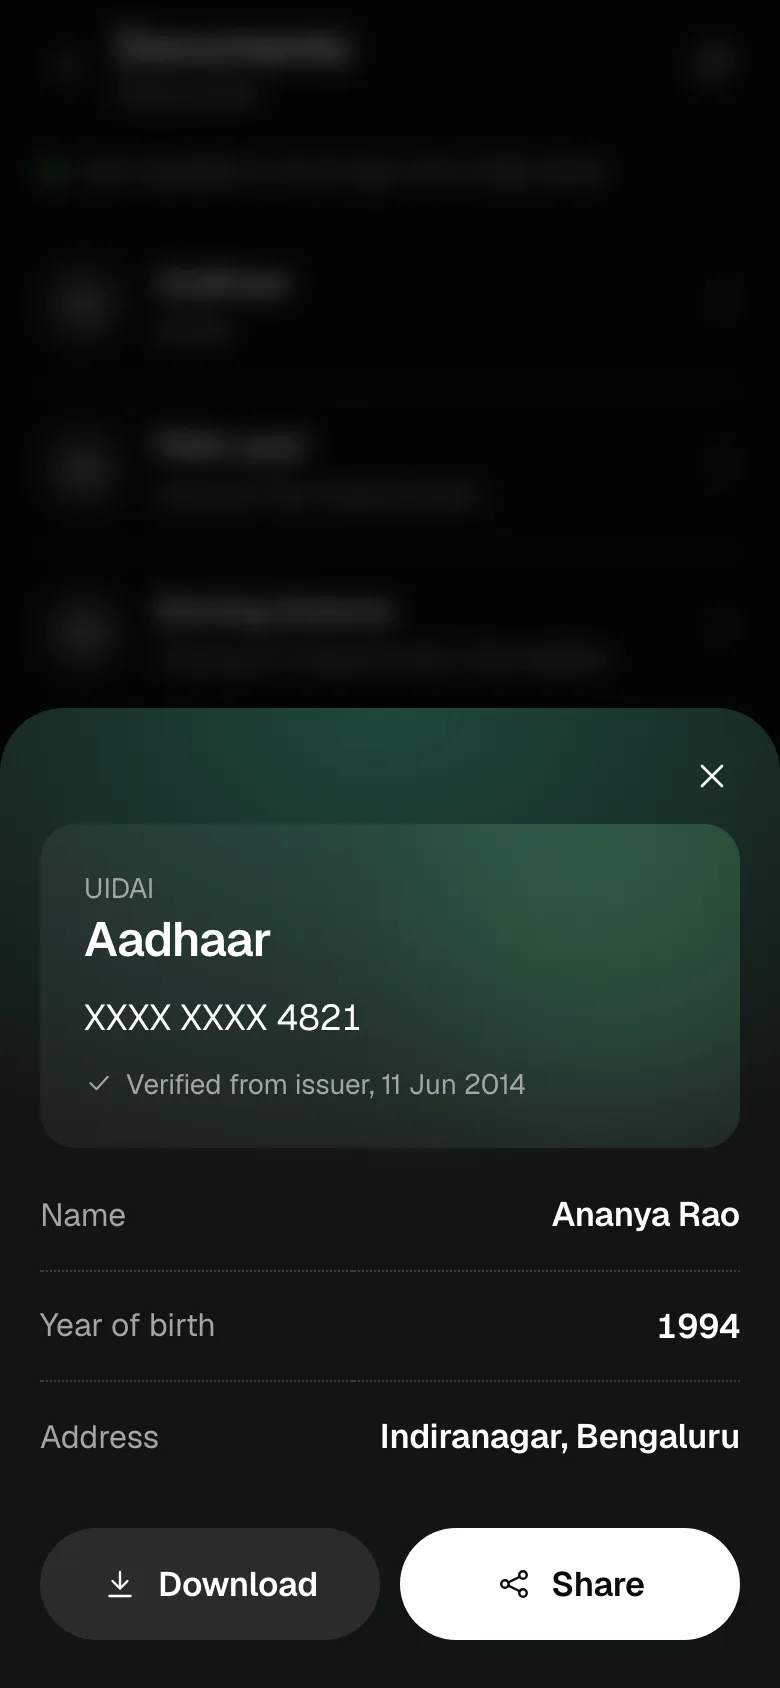
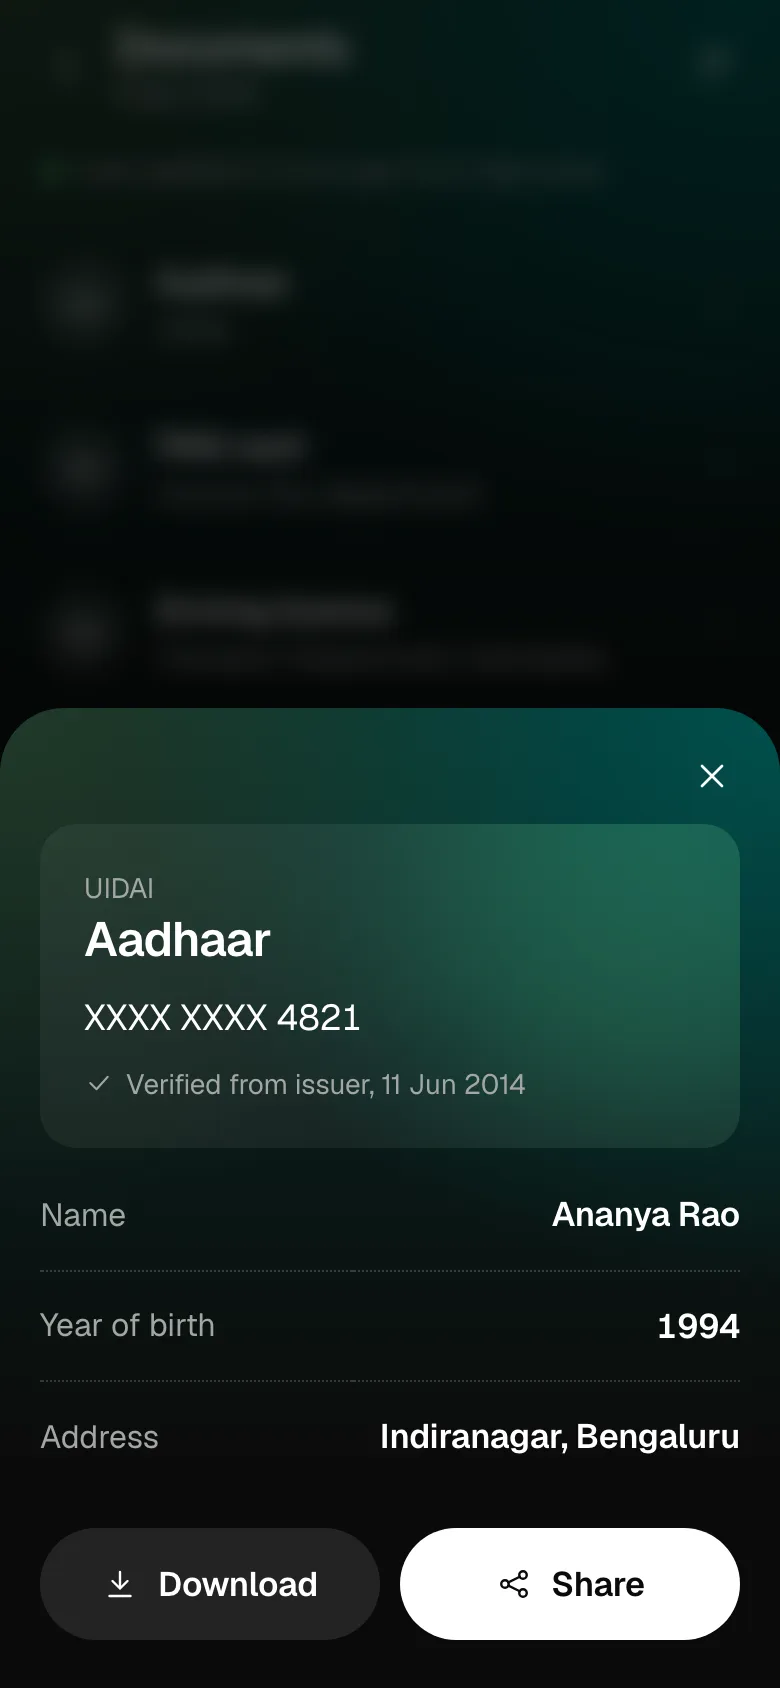
feat(design): the reference gradients
The ground gradient was hidden under body's own background. Home now has the green-to-teal wash, detail screens and sheets the olive-to-teal one, and items worth checking sit in amber blocks with a bar down the left.

Changed region(s): [[0.7385, 0.4005, 1.0, 0.6469], [0.6769, 0.0, 1.0, 0.0924]]

diff --git a/src/tokens/tokens.css b/src/tokens/tokens.css
@@ -10,6 +10,24 @@
   --font: 'Geist Variable', 'Mukta', system-ui, sans-serif;
   --logo-font: 'Mukta', var(--font);
   --fs: 16px;
+  --type-caption: 13px;
+  --type-small: 14px;
+  --type-body: 15px;
+  --type-row: 17px;
+  --type-section: 20px;
+  --type-title: 22px;
+  --type-sheet: 24px;
+  --type-number: 52px;
+  --type-count: 64px;
+  --weight-normal: 400;
+  --weight-medium: 500;
+  --weight-strong: 600;
+  --r-focus: 6px;
+  --page-glow: radial-gradient(ellipse 95% 65% at 0% 0%, var(--ground-c), transparent 85%), radial-gradient(ellipse 95% 75% at 95% 0%, var(--ground-b), transparent 82%), linear-gradient(to bottom, var(--ground-top), var(--bg) 100%);
+  --home-glow: radial-gradient(ellipse 80% 65% at 0% 23%, var(--ground-a), transparent 85%), radial-gradient(ellipse 100% 80% at 100% 0%, var(--ground-b), transparent 85%), linear-gradient(to bottom, var(--ground-top), var(--bg) 95%);
+  --sheet-glow: radial-gradient(ellipse 90% 300px at 0% 0%, var(--ground-c), transparent 85%), radial-gradient(ellipse 100% 340px at 100% 0%, var(--ground-b), transparent 85%), linear-gradient(to bottom, var(--ground-top), var(--sheet-bg) 380px);
+  --nav-ground: linear-gradient(to top, var(--bg) 70%, transparent);
+  --blur-sheet: 6px;
   --track-tight: -.02em;
   --track-display: -.035em;
 
@@ -42,6 +60,12 @@
   /* light */
   --bg: #F3F5F4;
   --glow: rgba(36, 92, 76, .22);
+  /* the ground gradient: green top-left, teal top-right, olive for detail screens, fading into the ground */
+  --ground-top: #D5E8DE;
+  --ground-a: rgba(110, 185, 135, .55);
+  --ground-b: rgba(30, 135, 120, .4);
+  --ground-c: rgba(165, 170, 90, .3);
+  --flag: rgba(242, 165, 46, .14);
   --surface: rgba(10, 11, 11, .05);
   --surface-2: rgba(10, 11, 11, .08);
   --surface-3: rgba(10, 11, 11, .12);
@@ -73,8 +97,13 @@
 
 @media (prefers-color-scheme: dark) {
   :root:not([data-theme="light"]) {
-    --bg: #0A0B0B;
-    --glow: rgba(36, 92, 76, .72);
+    --bg: #0B0B0A;
+    --glow: rgba(28, 92, 78, .85);
+    --ground-top: #082A28;
+    --ground-a: rgba(103, 136, 77, .68);
+    --ground-b: rgba(0, 83, 79, .92);
+    --ground-c: rgba(79, 86, 43, .36);
+    --flag: #2A2113;
     --surface: rgba(255, 255, 255, .06);
     --surface-2: rgba(255, 255, 255, .1);
     --surface-3: rgba(255, 255, 255, .14);
@@ -83,7 +112,7 @@
     --text: #FFFFFF;
     --muted: #A3A7A5;
     --faint: #6B706E;
-    --hero-label: #9DB9AE;
+    --hero-label: #A8CDB6;
     --primary: #FFFFFF;
     --primary-ink: #0A0B0B;
     --accent: #52D17A;
@@ -98,15 +127,20 @@
     --knob: #FFFFFF;
     --knob-shadow: rgba(0, 0, 0, .5);
     --scrim: rgba(0, 0, 0, .6);
-    --sheet-bg: #121413;
+    --sheet-bg: #0B0B0A;
     --shadow-float: 0 30px 80px -20px rgba(0, 0, 0, .9);
     color-scheme: dark;
   }
 }
 
 :root[data-theme="dark"] {
-  --bg: #0A0B0B;
-  --glow: rgba(36, 92, 76, .72);
+  --bg: #0B0B0A;
+  --glow: rgba(28, 92, 78, .85);
+  --ground-top: #082A28;
+  --ground-a: rgba(103, 136, 77, .68);
+  --ground-b: rgba(0, 83, 79, .92);
+  --ground-c: rgba(79, 86, 43, .36);
+  --flag: #2A2113;
   --surface: rgba(255, 255, 255, .06);
   --surface-2: rgba(255, 255, 255, .1);
   --surface-3: rgba(255, 255, 255, .14);
@@ -115,7 +149,7 @@
   --text: #FFFFFF;
   --muted: #A3A7A5;
   --faint: #6B706E;
-  --hero-label: #9DB9AE;
+  --hero-label: #A8CDB6;
   --primary: #FFFFFF;
   --primary-ink: #0A0B0B;
   --accent: #52D17A;
@@ -130,7 +164,7 @@
   --knob: #FFFFFF;
   --knob-shadow: rgba(0, 0, 0, .5);
   --scrim: rgba(0, 0, 0, .6);
-  --sheet-bg: #121413;
+  --sheet-bg: #0B0B0A;
   --shadow-float: 0 30px 80px -20px rgba(0, 0, 0, .9);
   color-scheme: dark;
 }

diff --git a/src/features/home/Home.module.css b/src/features/home/Home.module.css
@@ -1,4 +1,6 @@
-.head { padding: 14px 20px 4px; }
+/* Home's ground: the bright green-to-teal wash behind the greeting and the count, fading to black. */
+.ground { position: absolute; inset: 0 0 auto; height: 490px; z-index: -1; pointer-events: none; background: var(--home-glow); }
+.head { padding: 28px 20px 4px; }
 .bar { display: flex; align-items: center; gap: 12px; }
 .who { flex: 1; min-width: 0; display: flex; flex-direction: column; }
 .hi { font-weight: 600; font-size: 18px; letter-spacing: -.015em; line-height: 1.25; }
@@ -8,10 +10,10 @@
 @media (hover: hover) and (pointer: fine) { .round:hover { background: var(--surface-2); } }
 
 /* The hero sits on the glow: a tinted label, the count, a chip, then the two white actions. */
-.hero { padding: 26px 0 8px; }
+.hero { padding: 42px 0 8px; }
 .heroLabel { display: block; font-size: 17px; color: var(--hero-label); margin-bottom: 4px; }
 .count { margin: 0; font-weight: inherit; font-size: inherit; display: flex; flex-direction: column; gap: 6px; }
-.num { font-weight: 600; font-size: 64px; line-height: 1; letter-spacing: var(--track-display); font-variant-numeric: tabular-nums; }
+.num { font-weight: var(--weight-medium); font-size: var(--type-count); line-height: 1; letter-spacing: var(--track-display); font-variant-numeric: tabular-nums; }
 .lbl { font-size: 17px; font-weight: 400; line-height: 1.35; color: var(--muted); text-wrap: pretty; max-width: 26ch; }
 .clear { display: flex; align-items: center; gap: 12px; margin: 4px 0 0; font-size: 20px; font-weight: 600; letter-spacing: -.015em; line-height: 1.25; max-width: 20ch; }
 .clearMark { width: 40px; height: 40px; flex: none; border-radius: 50%; display: grid; place-items: center; background: var(--ok-soft); color: var(--ok); }
@@ -20,12 +22,12 @@
 .chipIc { width: 28px; height: 28px; border-radius: 50%; display: grid; place-items: center; background: var(--surface-3); color: var(--text); }
 .chip:active { transform: scale(.97); transition-duration: var(--m-press); }
 @media (hover: hover) and (pointer: fine) { .chip:hover { background: var(--surface-3); } }
-.actions { display: flex; gap: 10px; margin-top: 24px; }
+.actions { display: flex; gap: 10px; margin-top: 30px; }
 .actions > * { flex: 1; min-width: 0; padding: 0 14px; }
 .actions > * > span:last-child, .actions > * { overflow: hidden; text-overflow: ellipsis; }
 
 .list { margin-top: 2px; }
-.queue { margin-top: 22px; border-top: 1px dotted var(--sep); }
+.queue { margin-top: 8px; }
 
 .enter .hero > * { animation: rise var(--m-enter) var(--ease-enter) both; }
 .enter .hero > :nth-child(2) { animation-delay: .06s; }

diff --git a/src/tokens/global.css b/src/tokens/global.css
@@ -7,9 +7,9 @@
 *, *::before, *::after { box-sizing: border-box; }
 :root { box-sizing: border-box; padding-top: env(safe-area-inset-top, 0px); padding-bottom: env(safe-area-inset-bottom, 0px); }
 html { scroll-padding-top: calc(env(safe-area-inset-top, 0px) + 84px); background: var(--bg); overflow-x: clip; }
-body { margin: 0; background: var(--bg); color: var(--text); font-family: var(--font); font-size: var(--fs, 16px); line-height: 1.45; letter-spacing: -.005em; -webkit-font-smoothing: antialiased; -webkit-tap-highlight-color: transparent; overflow-x: clip; }
-/* The ground: one deep-teal glow at the top of the screen, fading into the black by a third of the way down. Still. */
-body::before { content: ""; position: fixed; left: 0; right: 0; top: 0; height: 60vh; z-index: -1; pointer-events: none; background: radial-gradient(90% 100% at 50% -10%, var(--glow), transparent 72%); }
+body { margin: 0; position: relative; color: var(--text); font-family: var(--font); font-size: var(--fs, 16px); line-height: 1.45; letter-spacing: -.005em; -webkit-font-smoothing: antialiased; -webkit-tap-highlight-color: transparent; overflow-x: clip; }
+/* The ground: a still gradient at the top of every screen that scrolls away with the page.
+   body has no background of its own (html carries it) so this layer is never covered. */
 ::selection { background: var(--accent); color: var(--primary-ink); }
 button, input, select { font: inherit; color: inherit; letter-spacing: inherit; }
 button { cursor: pointer; }
@@ -33,7 +33,7 @@ main:focus { outline: none; }
 .stack { display: grid; gap: 10px; }
 .btn-row { display: flex; gap: 10px; margin-top: 18px; }
 .btn-row > * { flex: 1; }
-.big { font-weight: 600; font-size: 52px; line-height: 1.05; letter-spacing: var(--track-display); margin: 6px 0 18px; font-variant-numeric: tabular-nums; }
+.big { font-weight: var(--weight-medium); font-size: var(--type-number); line-height: 1.05; letter-spacing: var(--track-display); margin: 6px 0 18px; font-variant-numeric: tabular-nums; }
 .big.md { font-size: 34px; letter-spacing: var(--track-tight); margin: 4px 0 6px; }
 .big.mono { font-size: 30px; letter-spacing: 0; white-space: nowrap; }
 .label { font-size: 15px; color: var(--muted); }

diff --git a/src/components/AlertCard.module.css b/src/components/AlertCard.module.css
@@ -1,14 +1,12 @@
 /* A queue row: round marker, title and reason, and a small pill with the action. */
-.alert { display: flex; align-items: center; gap: 14px; width: 100%; text-align: left; border: 0; border-bottom: 1px dotted var(--sep); padding: 18px 0; color: var(--text); background: none; transition: transform var(--m-out) var(--ease); }
+.alert { display: flex; align-items: center; gap: 14px; width: 100%; text-align: left; border: 0; border-bottom: 1px dotted var(--sep); padding: 24px 0; color: var(--text); background: none; transition: transform var(--m-out) var(--ease); }
 .alert:last-child { border-bottom: 0; }
 .ic { width: 44px; height: 44px; border-radius: var(--r-mark); display: grid; place-items: center; flex: none; background: var(--surface-2); color: var(--text); }
-.danger .ic { background: var(--danger-soft); color: var(--danger); }
-.warn .ic { background: var(--hi-soft); color: var(--hi); }
+.danger .ic, .warn .ic { background: var(--hi-soft); color: var(--hi); }
 .body { flex: 1; min-width: 0; display: block; }
-.title { font-weight: 600; font-size: 17px; line-height: 1.3; letter-spacing: -.01em; display: block; text-wrap: pretty; }
+.title { font-weight: var(--weight-medium); font-size: var(--type-row); line-height: 1.3; letter-spacing: -.01em; display: block; text-wrap: pretty; }
 .text { font-size: 15px; color: var(--muted); margin-top: 2px; display: block; line-height: 1.4; }
-.danger .text, .warn .text { color: var(--hi); }
-.danger .text { color: var(--danger); }
+.danger .go, .warn .go { color: var(--hi); }
 .go { display: inline-flex; align-items: center; gap: 2px; flex: none; font-weight: 500; font-size: 14px; background: var(--surface-2); color: var(--text); padding: 0 10px 0 14px; min-height: 40px; border-radius: var(--r-pill); white-space: nowrap; max-width: 42%; }
 .go > span { overflow: hidden; text-overflow: ellipsis; }
 .go svg { flex: none; color: var(--faint); transition: transform var(--m-in) var(--ease); }

diff --git a/src/components/Sheet.module.css b/src/components/Sheet.module.css
@@ -1,7 +1,7 @@
-.wrap { position: fixed; inset: 0; z-index: 30; width: 100%; height: 100%; max-width: none; max-height: none; margin: 0; padding: 0; border: 0; background: var(--scrim); backdrop-filter: blur(6px); -webkit-backdrop-filter: blur(6px); display: flex; align-items: flex-end; justify-content: center; animation: fade .2s var(--ease); color: var(--text); }
+.wrap { position: fixed; inset: 0; z-index: 30; width: 100%; height: 100%; max-width: none; max-height: none; margin: 0; padding: 0; border: 0; background: var(--scrim); backdrop-filter: blur(var(--blur-sheet)); -webkit-backdrop-filter: blur(var(--blur-sheet)); display: flex; align-items: flex-end; justify-content: center; animation: fade .2s var(--ease); color: var(--text); }
 .wrap::backdrop { background: transparent; }
 /* The sheet rises from the bottom edge, with its own teal glow at the top. */
-.sheet { background: radial-gradient(90% 240px at 50% 0, var(--glow), transparent 100%) no-repeat, var(--sheet-bg); width: 100%; max-width: 480px; border-radius: var(--r-sheet) var(--r-sheet) 0 0; padding: 12px 20px calc(24px + env(safe-area-inset-bottom, 0px)); max-height: 92%; overflow-y: auto; animation: up .36s var(--ease-enter); outline: none; box-shadow: var(--shadow-float); }
+.sheet { background: var(--sheet-glow), var(--sheet-bg); width: 100%; max-width: 480px; border-radius: var(--r-sheet) var(--r-sheet) 0 0; padding: 12px 20px calc(24px + env(safe-area-inset-bottom, 0px)); max-height: 92%; overflow-y: auto; animation: up .36s var(--ease-enter); outline: none; box-shadow: var(--shadow-float); }
 .core { display: contents; }
 .head { display: flex; justify-content: flex-end; margin: 0 -8px 2px 0; }
 .title { font-weight: 600; margin: 0 0 6px; font-size: 24px; line-height: 1.15; letter-spacing: var(--track-tight); text-wrap: balance; }

diff --git a/src/components/TabBar.module.css b/src/components/TabBar.module.css
@@ -1,5 +1,5 @@
 /* Flat: icons and labels on a fade from the ground, no container. */
-.tabs { position: fixed; left: 0; right: 0; bottom: 0; z-index: 6; padding: 22px 8px calc(10px + env(safe-area-inset-bottom, 0px)); pointer-events: none; background: linear-gradient(to top, var(--bg) 62%, transparent); }
+.tabs { position: fixed; left: 0; right: 0; bottom: 0; z-index: 6; padding: 22px 8px calc(10px + env(safe-area-inset-bottom, 0px)); pointer-events: none; background: var(--nav-ground); }
 .inner { pointer-events: auto; max-width: 480px; margin: 0 auto; display: grid; grid-template-columns: repeat(4, 1fr); }
 .tab { background: none; border: 0; padding: 4px 0; display: flex; flex-direction: column; align-items: center; gap: 5px; min-height: 56px; justify-content: center; font-size: 14px; font-weight: 500; letter-spacing: -.005em; color: var(--faint); position: relative; transition: transform var(--m-out) var(--ease), color var(--m-out) var(--ease); }
 .tab svg { width: 26px; height: 26px; }

diff --git a/src/components/Field.module.css b/src/components/Field.module.css
@@ -1,5 +1,5 @@
 /* A field is a box: the label sits inside it above the value. */
-.field { display: block; margin-top: 10px; padding: 12px 16px 10px; border-radius: var(--r-field); background: var(--surface); font-size: 14px; color: var(--muted); transition: box-shadow var(--m-in) var(--ease); }
+.field { display: block; margin-top: 10px; padding: 14px 16px 12px; border: 1px solid var(--line); border-radius: var(--r-field); background: var(--surface); font-size: 14px; color: var(--muted); transition: box-shadow var(--m-in) var(--ease); }
 .field:focus-within { box-shadow: inset 0 0 0 1px var(--sep); }
 .field input, .field select { display: block; width: 100%; margin-top: 2px; padding: 0; border: 0; background: none; font-size: 18px; font-weight: 500; letter-spacing: -.01em; color: var(--text); min-height: 30px; caret-color: var(--accent); outline: none; }
 .field select { margin-left: -4px; width: calc(100% + 4px); }

diff --git a/src/app/Shell.module.css b/src/app/Shell.module.css
@@ -1,4 +1,6 @@
-.shell { max-width: 480px; margin: 0 auto; padding-bottom: calc(var(--tabs-h, 92px) + env(safe-area-inset-bottom, 0px)); }
+.shell { position: relative; isolation: isolate; min-height: 100dvh; max-width: 480px; margin: 0 auto; padding-bottom: calc(var(--tabs-h, 92px) + env(safe-area-inset-bottom, 0px)); }
 .bare { padding-bottom: 24px; }
 .skip { position: fixed; left: 12px; top: calc(env(safe-area-inset-top, 0px) + 8px); z-index: 50; transform: translateY(-300%); background: var(--primary); color: var(--primary-ink); border: 0; border-radius: var(--r-btn); padding: 12px 16px; font-weight: 700; min-height: 44px; }
 .skip:focus { transform: none; }
+
+.shell::before { content: ""; position: absolute; inset: 0 0 auto; height: 430px; background: var(--page-glow); z-index: -1; pointer-events: none; }

diff --git a/src/components/TopBar.module.css b/src/components/TopBar.module.css
@@ -1,4 +1,4 @@
-.top { position: sticky; top: env(safe-area-inset-top, 0px); z-index: 5; background: color-mix(in srgb, var(--bg) 55%, transparent); backdrop-filter: blur(16px); -webkit-backdrop-filter: blur(16px); color: var(--text); display: flex; align-items: center; gap: 2px; padding: 10px 12px 8px; margin-bottom: 8px; }
+.top { position: relative; top: env(safe-area-inset-top, 0px); z-index: 5; background: transparent; color: var(--text); display: flex; align-items: center; gap: 2px; padding: 10px 12px 8px; margin-bottom: 8px; }
 .top h1 { font-weight: 600; font-size: 22px; line-height: 1.2; letter-spacing: -.02em; margin: 0; flex: 1; min-width: 0; text-align: left; }
 .large { padding: 20px 20px 8px; }
 .large h1 { font-size: 28px; letter-spacing: var(--track-tight); }

diff --git a/src/features/home/Home.tsx b/src/features/home/Home.tsx
@@ -49,6 +49,7 @@ export function Home() {
 
   return (
     <>
+      <div className={s.ground} aria-hidden="true" />
       <header className={`${s.head} ${enter ? s.enter : ''}`}>
         <div className={s.bar}>
           <span className="logo" aria-hidden="true">{name[0]}</span>
@@ -87,6 +88,7 @@ export function Home() {
           </div>
         </section>
 
+        {items.length > 0 && <h2 className="h"><Icon name="receipt" size={22} />{t.attention}</h2>}
         {items.length > 0 && <Card variant="list" className={s.queue}>{items.map((x) => <AlertCard key={x.key} {...strip(x)} onClick={() => run(x.target)} />)}</Card>}
 
         <h2 className="h"><Icon name="grid" size={22} />{t.yourServices}</h2>
